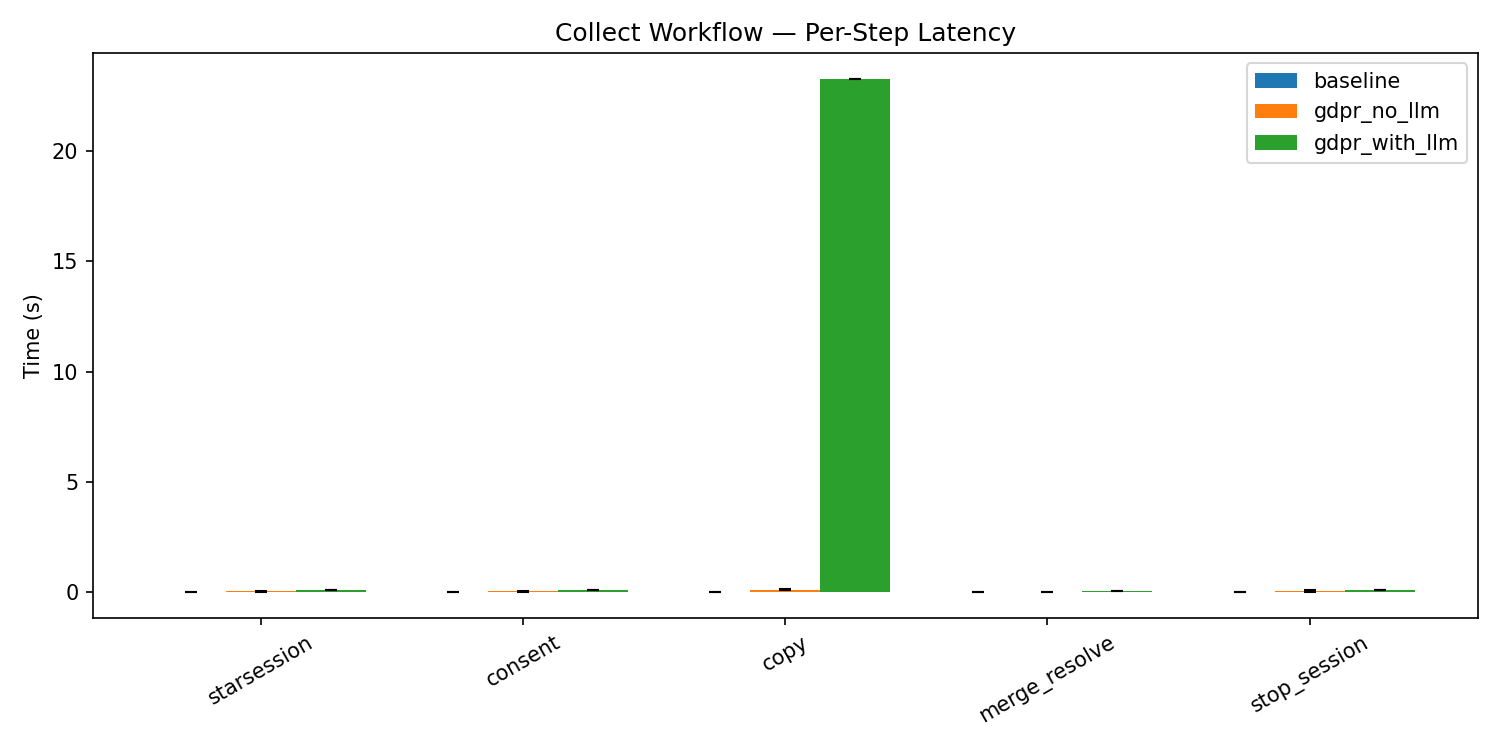
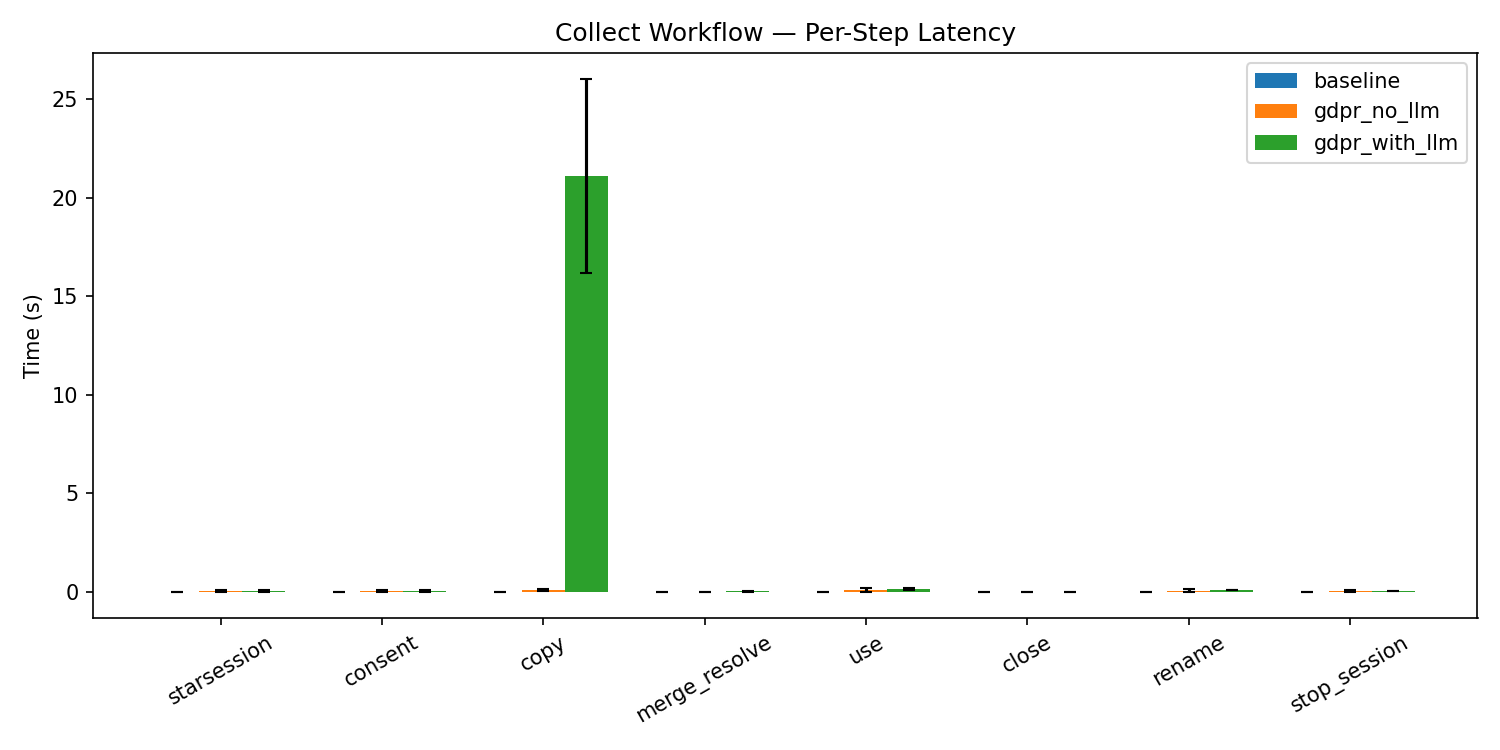
art5 workflow2 benchmarking cont

diff --git a/benchmark/art5_perf_test.py b/benchmark/art5_perf_test.py
@@ -42,6 +42,7 @@ MERGE_ALERT_FILE = BASE_DIR / "merge_alerts.json"
 
 DEFAULT_PDF = Path.home() / "Downloads" / "fhublet_collect_5wf2.pdf"
 TEST_FILENAME = "fhublet_collect_5wf2.pdf"
+RENAMED_FILENAME = "fhublet_collection_5wf2.pdf"
 
 import requests
 
@@ -125,7 +126,9 @@ def cleanup_iteration():
     """Remove test artifacts between benchmark runs."""
     # 1. Remove the PDF from FUSE mount and storage dirs (may need root)
     for p in (UPPER_DIR / TEST_FILENAME, MIRROR_DIR / TEST_FILENAME,
-              FUSE_MOUNT / TEST_FILENAME):
+              FUSE_MOUNT / TEST_FILENAME,
+              UPPER_DIR / RENAMED_FILENAME, MIRROR_DIR / RENAMED_FILENAME,
+              FUSE_MOUNT / RENAMED_FILENAME):
         # Use sudo rm directly to avoid PermissionError on .exists() for root-owned dirs
         subprocess.run(["sudo", "rm", "-f", str(p)],
                        check=False, capture_output=True)
@@ -135,16 +138,17 @@ def cleanup_iteration():
         conn = sqlite3.connect(str(GDPRFS_DB))
         cur = conn.cursor()
         # Find file row
-        row = cur.execute(
-            "SELECT id FROM file WHERE file_id=?", (TEST_FILENAME,)
-        ).fetchone()
-        if row:
-            fid = row[0]
-            cur.execute("DELETE FROM person_file_map WHERE file_id=?", (fid,))
-            cur.execute(
-                "DELETE FROM person_file_special_category WHERE file_id=?", (fid,)
-            )
-            cur.execute("DELETE FROM file WHERE id=?", (fid,))
+        for filename in (TEST_FILENAME, RENAMED_FILENAME):
+            row = cur.execute(
+                "SELECT id FROM file WHERE file_id=?", (filename,)
+            ).fetchone()
+            if row:
+                fid = row[0]
+                cur.execute("DELETE FROM person_file_map WHERE file_id=?", (fid,))
+                cur.execute(
+                    "DELETE FROM person_file_special_category WHERE file_id=?", (fid,)
+                )
+                cur.execute("DELETE FROM file WHERE id=?", (fid,))
         # Remove any alias entries created by this test
         cur.execute("DELETE FROM alias_person_map WHERE alias IN ('hublet')")
         # Remove unregistered Person entries (ghost entries from LLM)
@@ -229,7 +233,24 @@ class BaselineWorkflow:
             # Step 4: Merge resolution (no-op)
             t_merge_resolve = 0.0
 
-            # Step 5: StopSession (no-op)
+            # Step 5: Open + read the file (Use)
+            copied = os.path.join(tmp_dir, TEST_FILENAME)
+            t5 = time.perf_counter()
+            f = open(copied, "rb")
+            f.read()
+            t_use = time.perf_counter() - t5
+
+            # Step 6: Close the file
+            t6 = time.perf_counter()
+            f.close()
+            t_close = time.perf_counter() - t6
+
+            # Step 7: Rename the file (Collect)
+            t7 = time.perf_counter()
+            os.rename(copied, os.path.join(tmp_dir, RENAMED_FILENAME))
+            t_rename = time.perf_counter() - t7
+
+            # Step 8: StopSession (no-op)
             t_stop_session = 0.0
 
             t_total = time.perf_counter() - t0
@@ -241,6 +262,9 @@ class BaselineWorkflow:
             "t_consent": t_consent,
             "t_copy": t_copy,
             "t_merge_resolve": t_merge_resolve,
+            "t_use": t_use,
+            "t_close": t_close,
+            "t_rename": t_rename,
             "t_stop_session": t_stop_session,
             "t_total": t_total,
         }
@@ -299,10 +323,27 @@ class GDPRWorkflow:
             resolve_merge_alerts()
         t_merge_resolve = time.perf_counter() - t4
 
-        # Step 5: StopSession
+        # Step 5: Open + read the file (Use)
+        dest = FUSE_MOUNT / TEST_FILENAME
         t5 = time.perf_counter()
+        f = open(dest, "rb")
+        f.read()
+        t_use = time.perf_counter() - t5
+
+        # Step 6: Close the file
+        t6 = time.perf_counter()
+        f.close()
+        t_close = time.perf_counter() - t6
+
+        # Step 7: Rename the file (Collect)
+        t7 = time.perf_counter()
+        os.rename(dest, FUSE_MOUNT / RENAMED_FILENAME)
+        t_rename = time.perf_counter() - t7
+
+        # Step 8: StopSession
+        t8 = time.perf_counter()
         fuse_ingest("StopSession", uid="achao")
-        t_stop_session = time.perf_counter() - t5
+        t_stop_session = time.perf_counter() - t8
 
         t_total = time.perf_counter() - t0
 
@@ -311,6 +352,9 @@ class GDPRWorkflow:
             "t_consent": t_consent,
             "t_copy": t_copy,
             "t_merge_resolve": t_merge_resolve,
+            "t_use": t_use,
+            "t_close": t_close,
+            "t_rename": t_rename,
             "t_stop_session": t_stop_session,
             "t_total": t_total,
         }
@@ -356,7 +400,7 @@ class BenchmarkRunner:
 
 class BenchmarkReporter:
     STEPS = ["t_start_session", "t_consent", "t_copy", "t_merge_resolve",
-             "t_stop_session", "t_total"]
+             "t_use", "t_close", "t_rename", "t_stop_session", "t_total"]
 
     def __init__(self, all_results: dict, output_dir: str):
         self.all_results = all_results  # mode -> list of timing dicts
